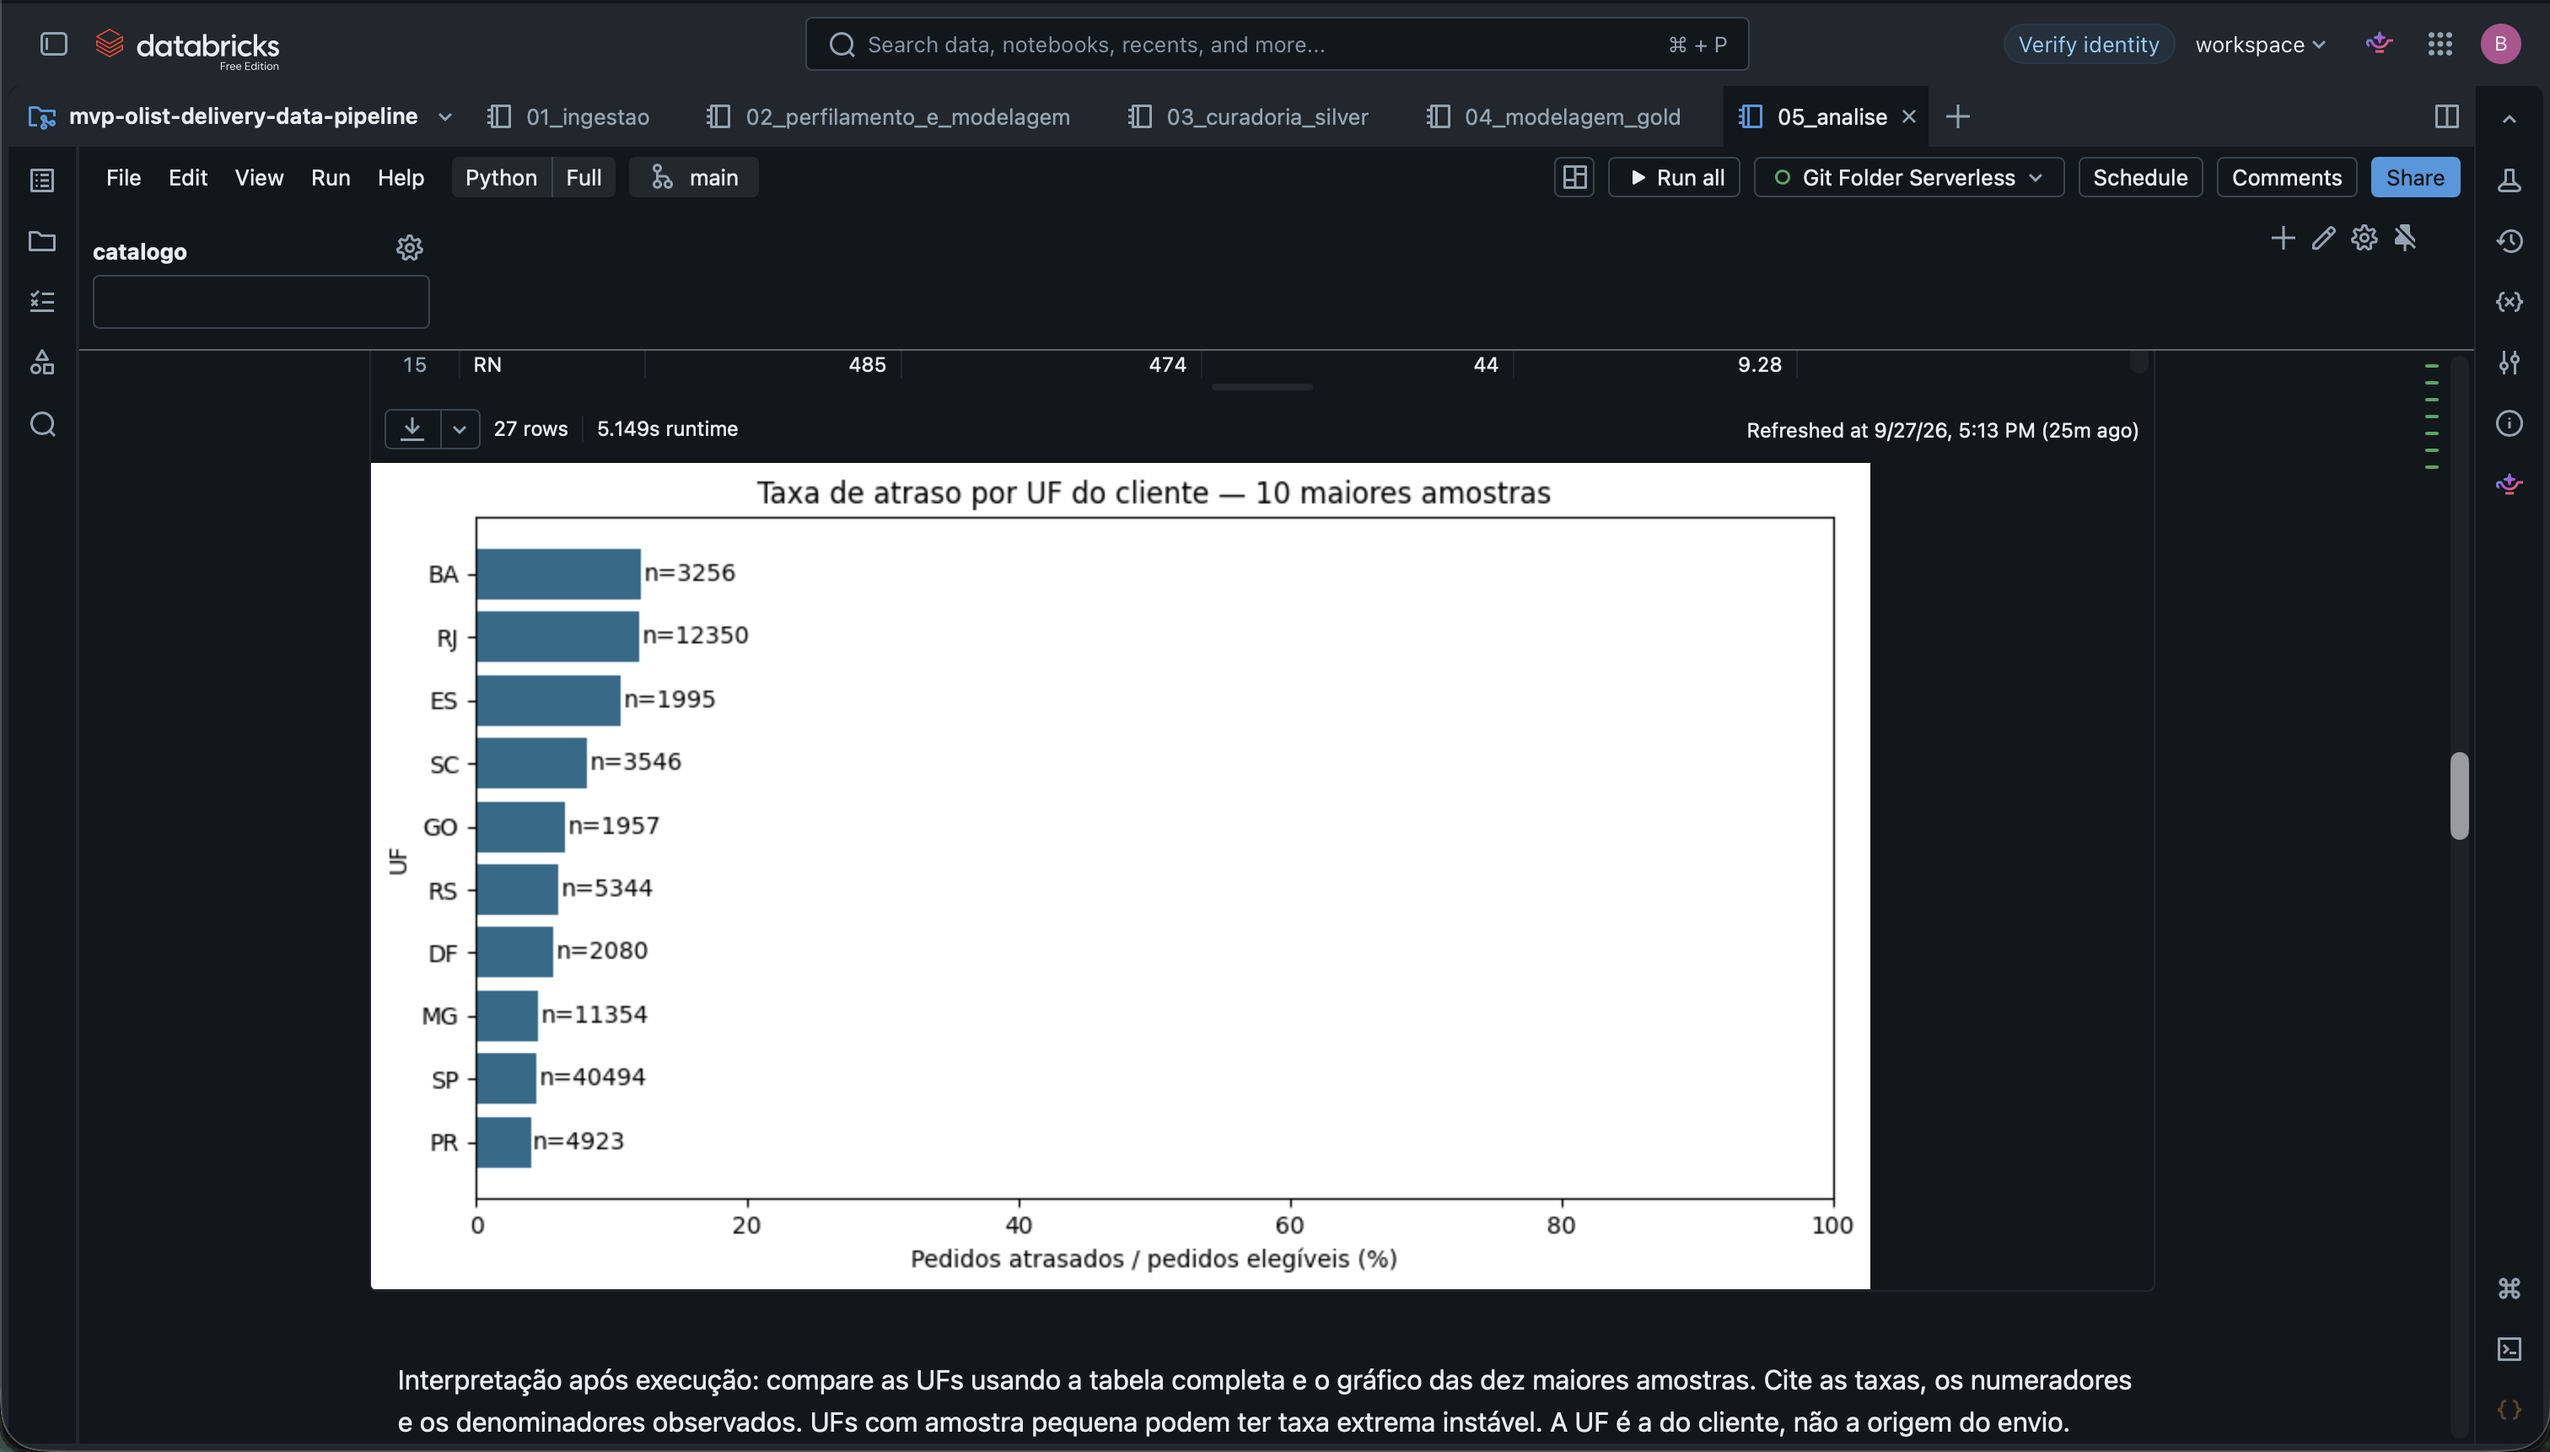
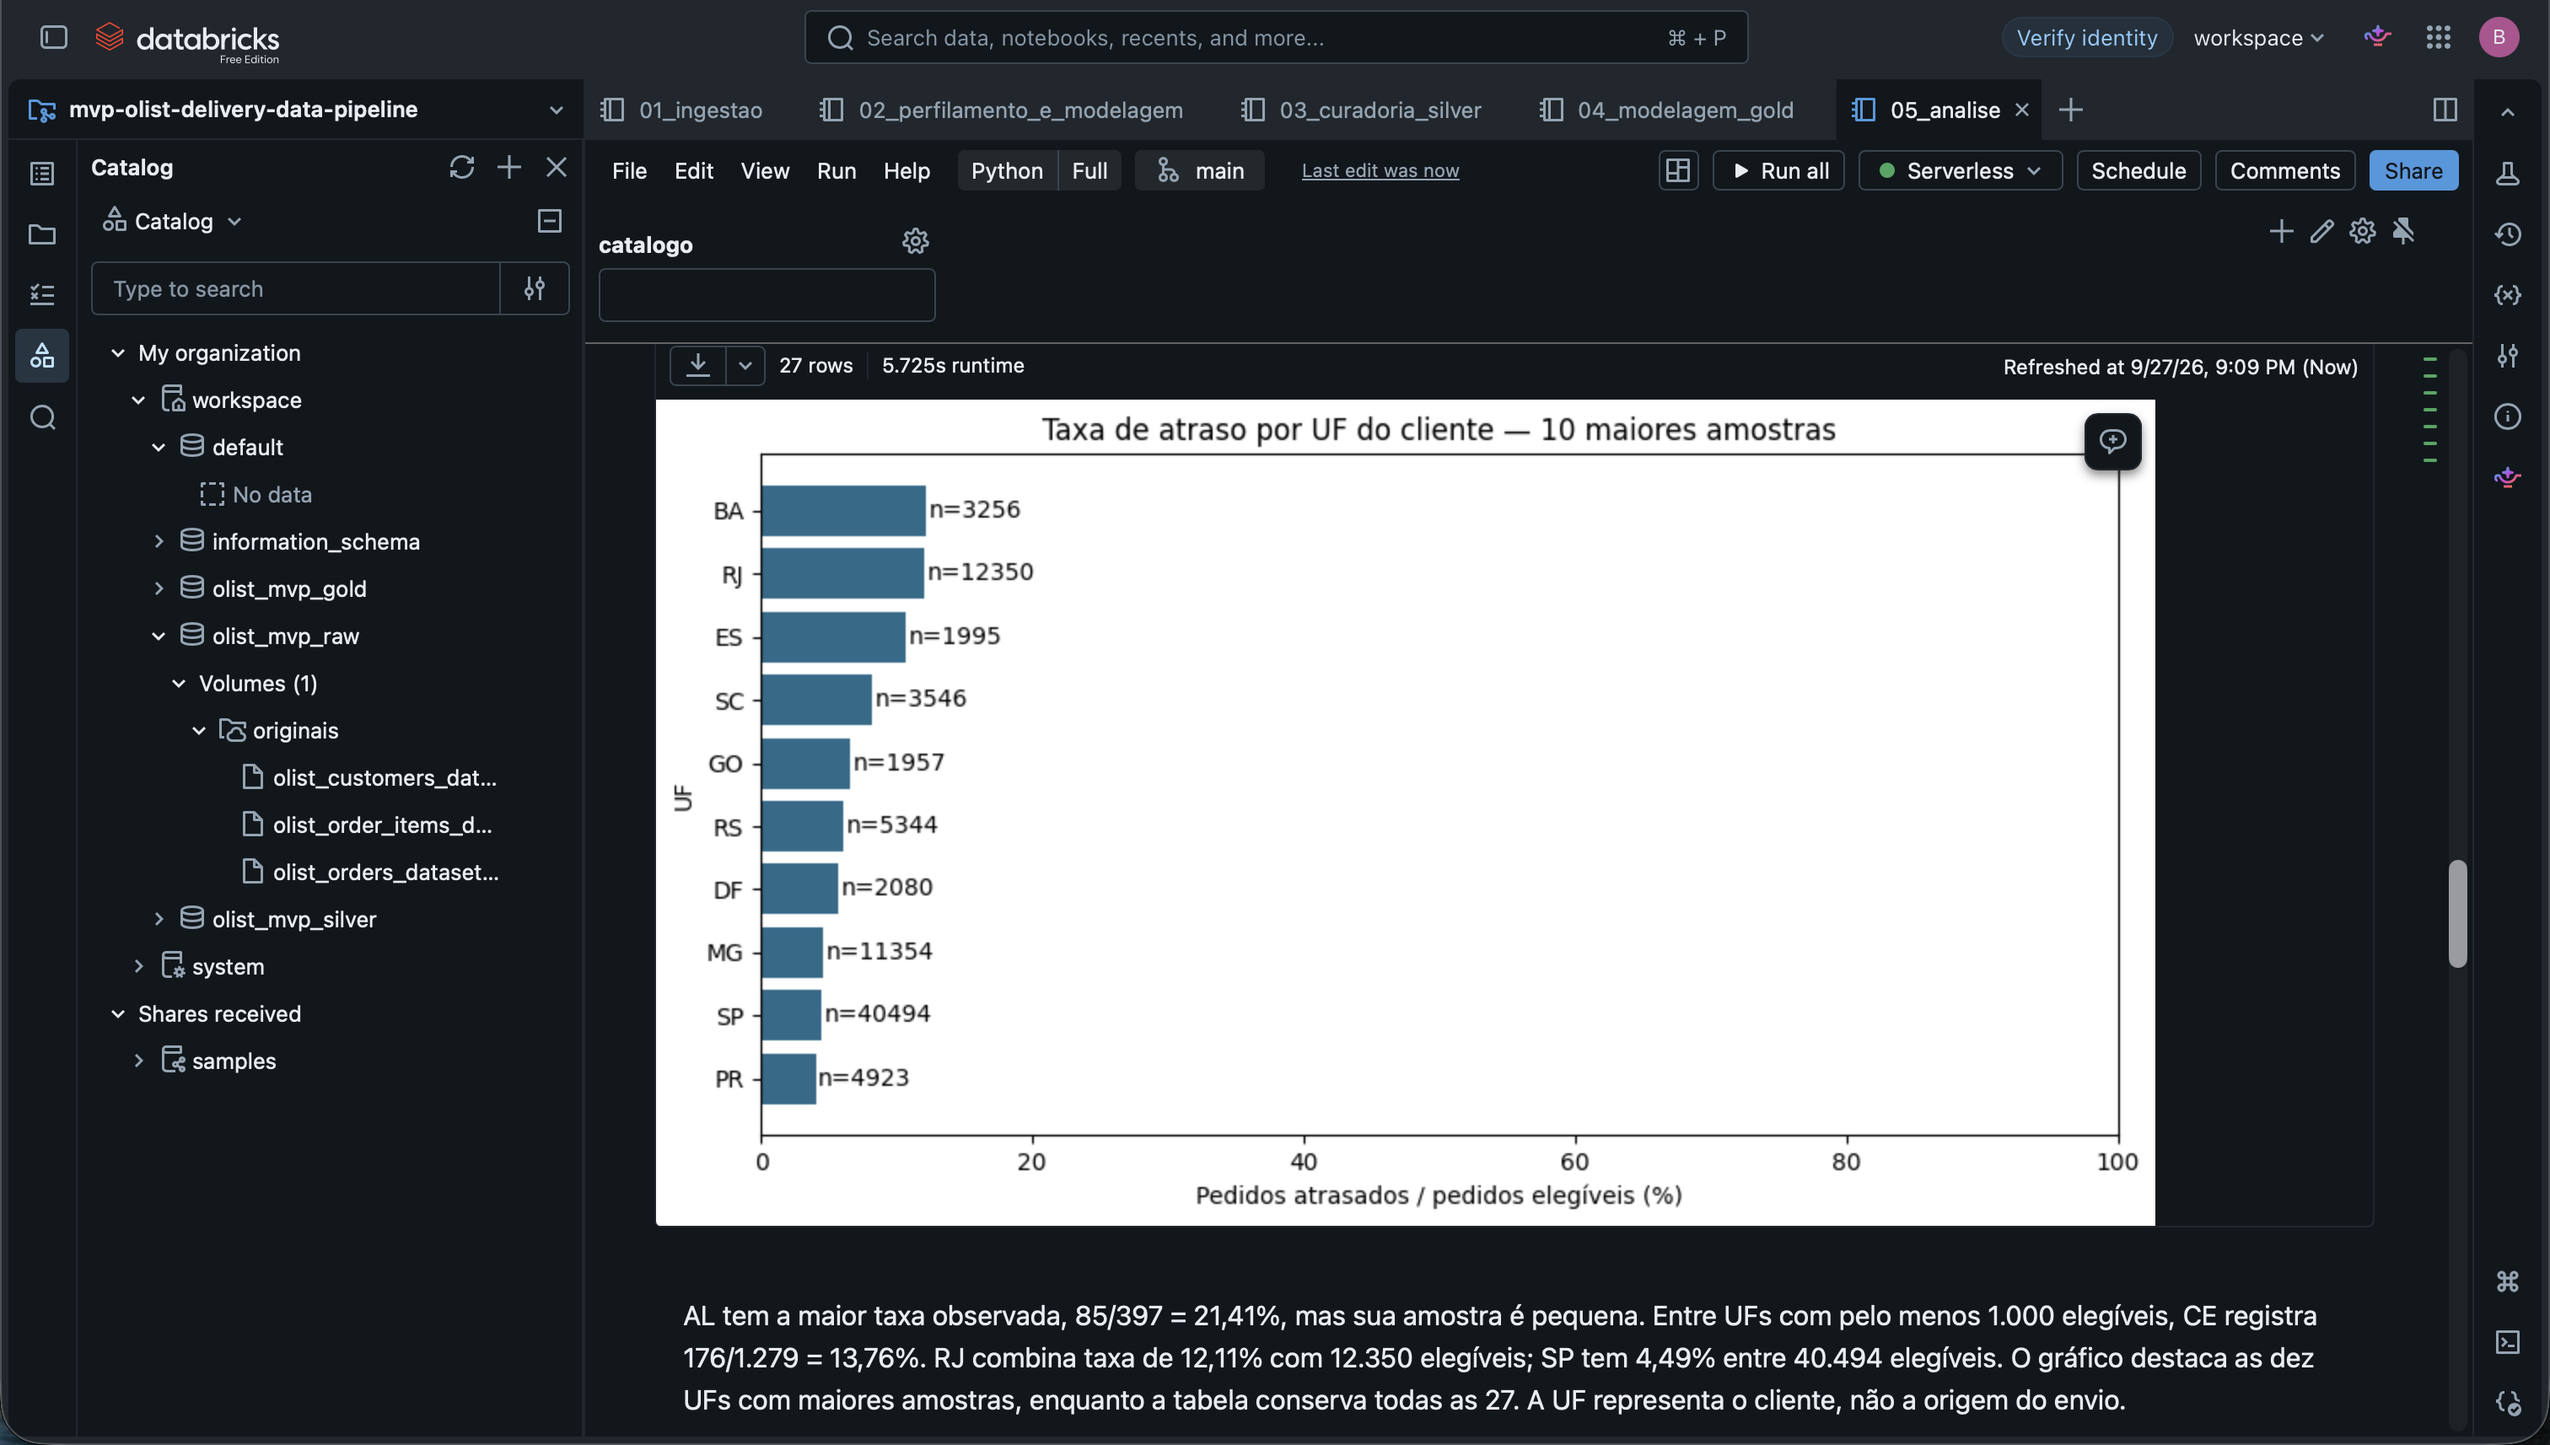
Atualizar capturas e referências do relatório

diff --git a/README.md b/README.md
@@ -58,7 +58,7 @@ O upload pela interface selecionou os três arquivos e o volume `workspace.olist
 
 ![Upload dos três CSVs para o volume gerenciado no Databricks](evidencias/01_upload_volume.png)
 
-![Arquivos originais no volume e tabelas criadas no Unity Catalog](evidencias/02_volume_e_tabelas.png)
+![Três arquivos originais no volume do Unity Catalog](evidencias/02_volume_arquivos.png)
 
 ## Modelagem e Catálogo de Dados
 
@@ -175,7 +175,7 @@ As escritas são reexecutáveis com a mesma origem: overwrite substitui as tabel
 | Calendário e localidades distintos | Permitir agrupamento por mês e UF | Uma linha por data e por chave de localidade |
 | Elegibilidade e atraso | Evitar classificar pedidos não entregues | Inelegíveis têm entrega_atrasada nula; elegíveis têm 0 ou 1 |
 
-**Persistência observada:** o Explorador de Catálogo mostra os três CSVs no volume de origem, três tabelas em `olist_mvp_silver` e três em `olist_mvp_gold`, todos no catálogo `workspace`. A [captura conjunta](evidencias/02_volume_e_tabelas.png) e as telas de Overview acima comprovam a criação das tabelas Delta. A consulta final da fato exibiu **99.441 pedidos**, preservando o grão de pedido.
+**Persistência observada:** o Explorador de Catálogo mostra os três CSVs no [volume de origem](evidencias/02_volume_arquivos.png). As telas de Overview das três tabelas Silver e três Gold, vinculadas na seção de catálogo, comprovam as tabelas Delta gerenciadas no catálogo `workspace`. A consulta final da fato exibiu **99.441 pedidos**, preservando o grão de pedido.
 
 ## Qualidade de Dados
 

diff --git a/evidencias/README.md b/evidencias/README.md
@@ -9,7 +9,7 @@ O enunciado pede screenshots do catálogo, das tabelas persistidas, dos passos f
 | Captura | O que comprova |
 | --- | --- |
 | [01_upload_volume.png](01_upload_volume.png) | Seleção dos três CSVs da Olist e destino no volume gerenciado. A tela foi capturada antes do envio. |
-| [02_volume_e_tabelas.png](02_volume_e_tabelas.png) | Os três arquivos presentes no volume originais e as três tabelas Silver e três Gold visíveis no catálogo após a carga. |
+| [02_volume_arquivos.png](02_volume_arquivos.png) | Os três arquivos presentes no volume originais e os esquemas Silver e Gold no catálogo. As tabelas de cada esquema aparecem nas capturas de Overview abaixo. |
 
 A segunda captura complementa a primeira: a seleção no formulário, sozinha, não provaria que o upload terminou.
 
